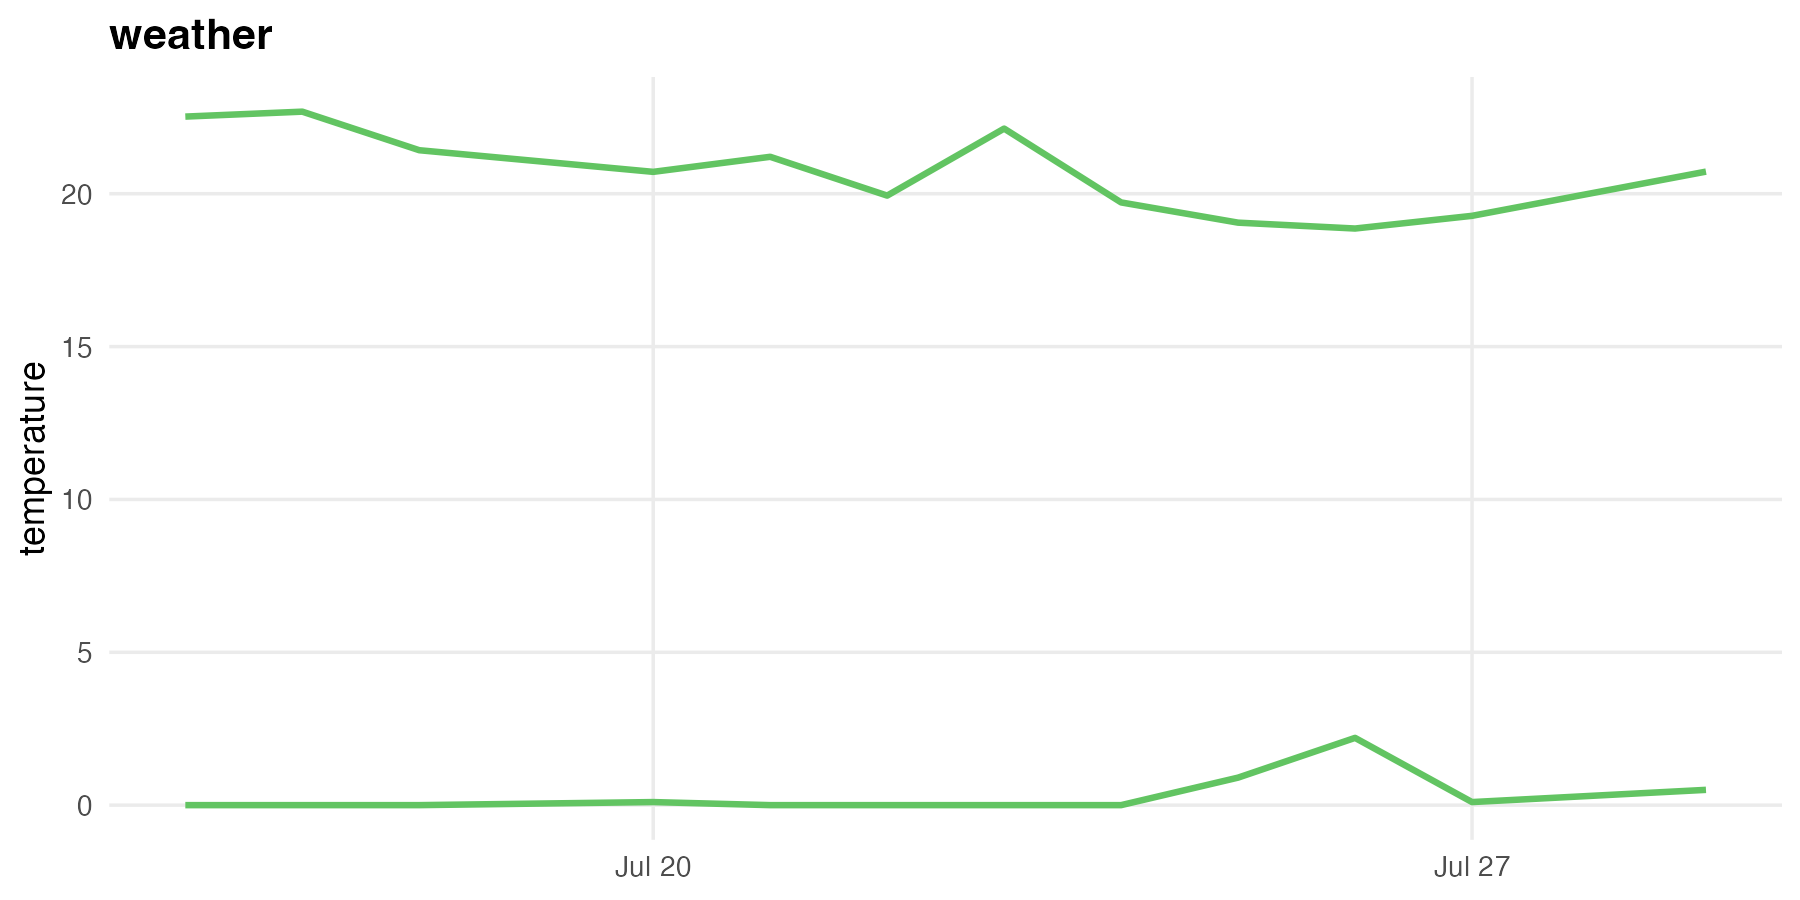
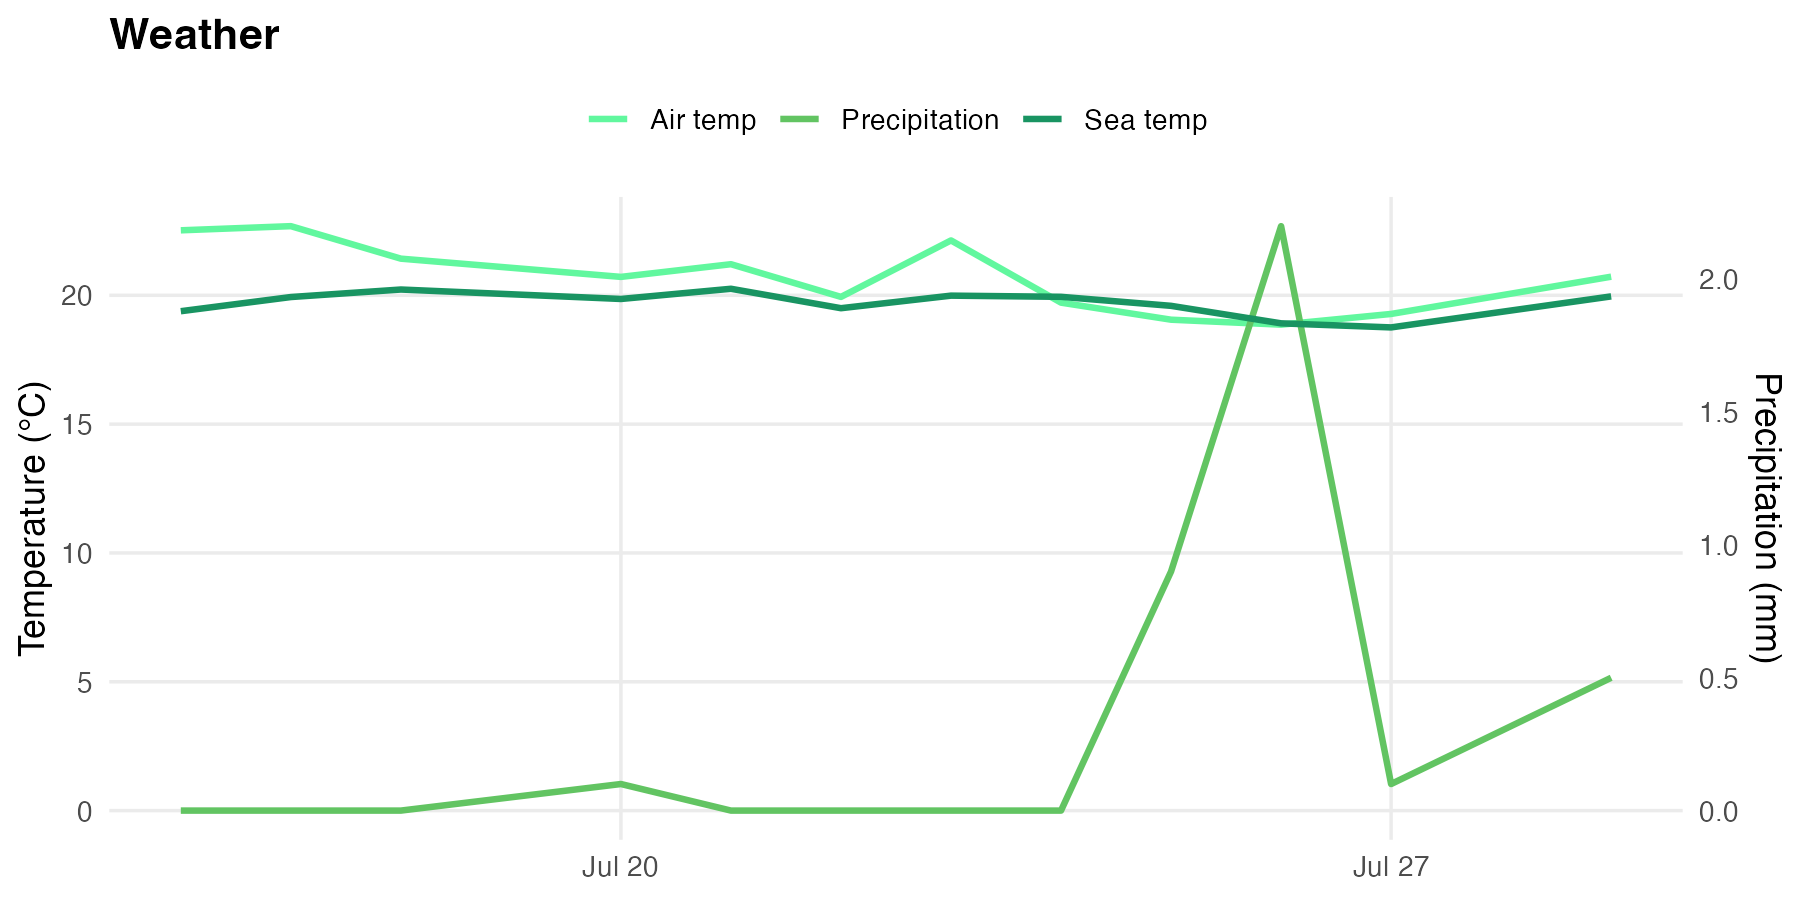
v1.1.15 small changes to map page

diff --git a/_layouts/map.html b/_layouts/map.html
@@ -48,7 +48,6 @@ layout: default
     <div class="stats-charts">
       <img src="{{ '/images/stats/swims_over_time.png' | relative_url }}" alt="Swims per day, with 7-day average" loading="lazy">
       <img src="{{ '/images/stats/cumulative_swims.png' | relative_url }}" alt="Cumulative swims over the trip" loading="lazy">
-      <img src="{{ '/images/stats/water_temp.png' | relative_url }}" alt="Water temperature over the trip" loading="lazy">
       <img src="{{ '/images/stats/weather.png' | relative_url }}" alt="Weather conditions over the trip" loading="lazy">
     </div>
   </section>
@@ -146,7 +145,7 @@ layout: default
     });
 </script> -->
 
-<script src="{{ '/assets/js/leaflet.js' | relative_url }}"></script>
+<!-- <script src="{{ '/assets/js/leaflet.js' | relative_url }}"></script>
 
 <script>
   console.log("Leaflet:", typeof L);
@@ -266,18 +265,16 @@ layout: default
     .catch(function (err) {
       console.error("Could not load spots:", err);
     });
-</script>
+</script> -->
 
 
 <!-- Leaflet JS then map initialisation after the div exists -->
-<!-- <script src="{{ '/assets/js/leaflet.js' | relative_url }}"></script>
+<script src="{{ '/assets/js/leaflet.js' | relative_url }}"></script>
 <script>
   var map = L.map('map').setView([50.2, -5.1], 9); // fallback: west Cornwall
 
-  L.tileLayer('https://{s}.basemaps.cartocdn.com/light_all/{z}/{x}/{y}{r}.png', {
-    attribution: '&copy; <a href="https://www.openstreetmap.org/copyright">OpenStreetMap</a> contributors &copy; <a href="https://carto.com/">CARTO</a>',
-    subdomains: 'abcd',
-    maxZoom: 19
+  L.tileLayer('https://{s}.tile.openstreetmap.org/{z}/{x}/{y}.png', {
+    attribution: '&copy; OpenStreetMap contributors'
   }).addTo(map);
 
   function escapeHtml(str) {
@@ -356,4 +353,4 @@ layout: default
     .catch(function (err) {
       console.error('Could not load camp spots:', err);
     });
-</script> -->
+</script>

diff --git a/_pages/map.md b/_pages/map.md
@@ -1,6 +1,6 @@
 ---
 layout: map
-title: "Where I am"
+title: "Coastal Walking"
 subtitle: "Camp spots from my walk around the British Isles"
 background_image: /images/about-background.jpg
 permalink: /map/
